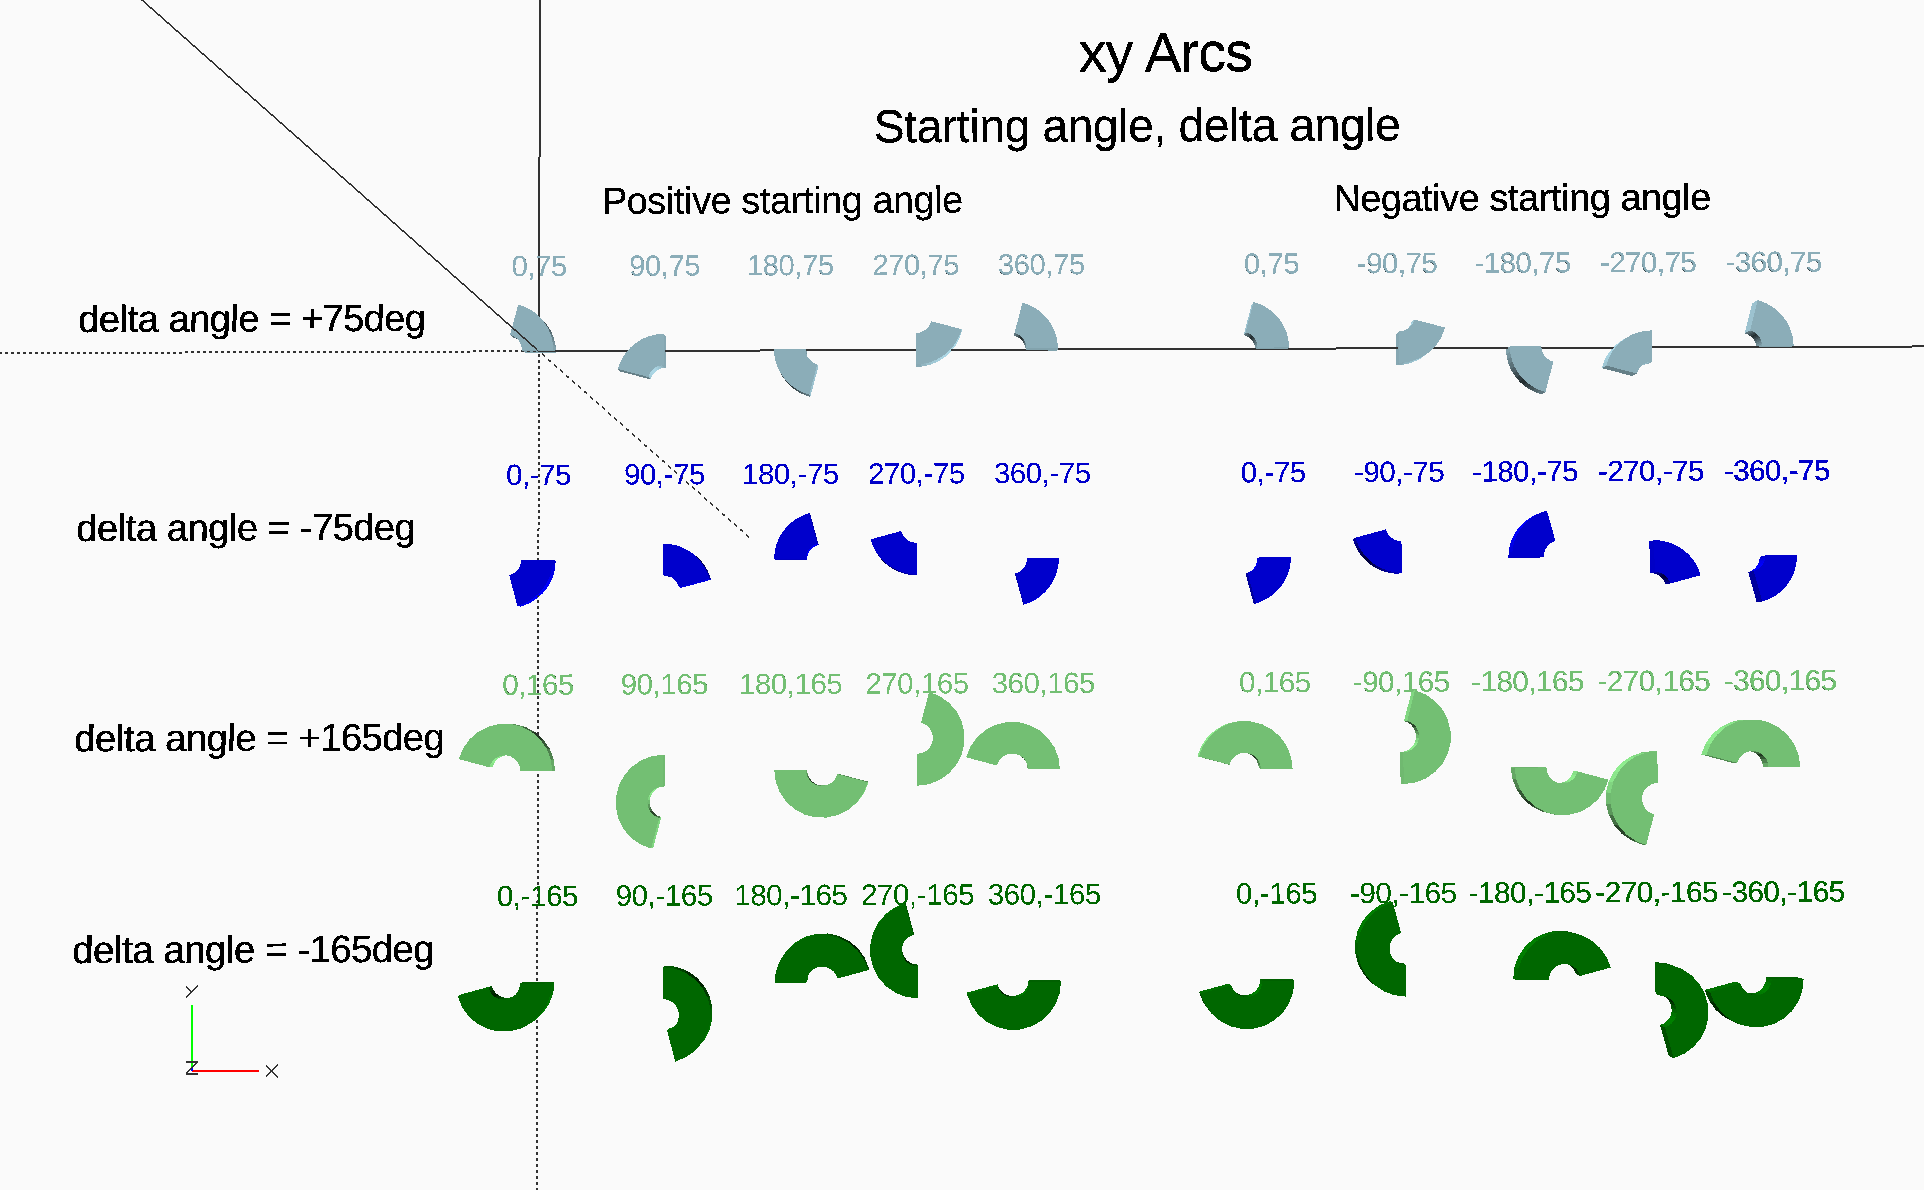
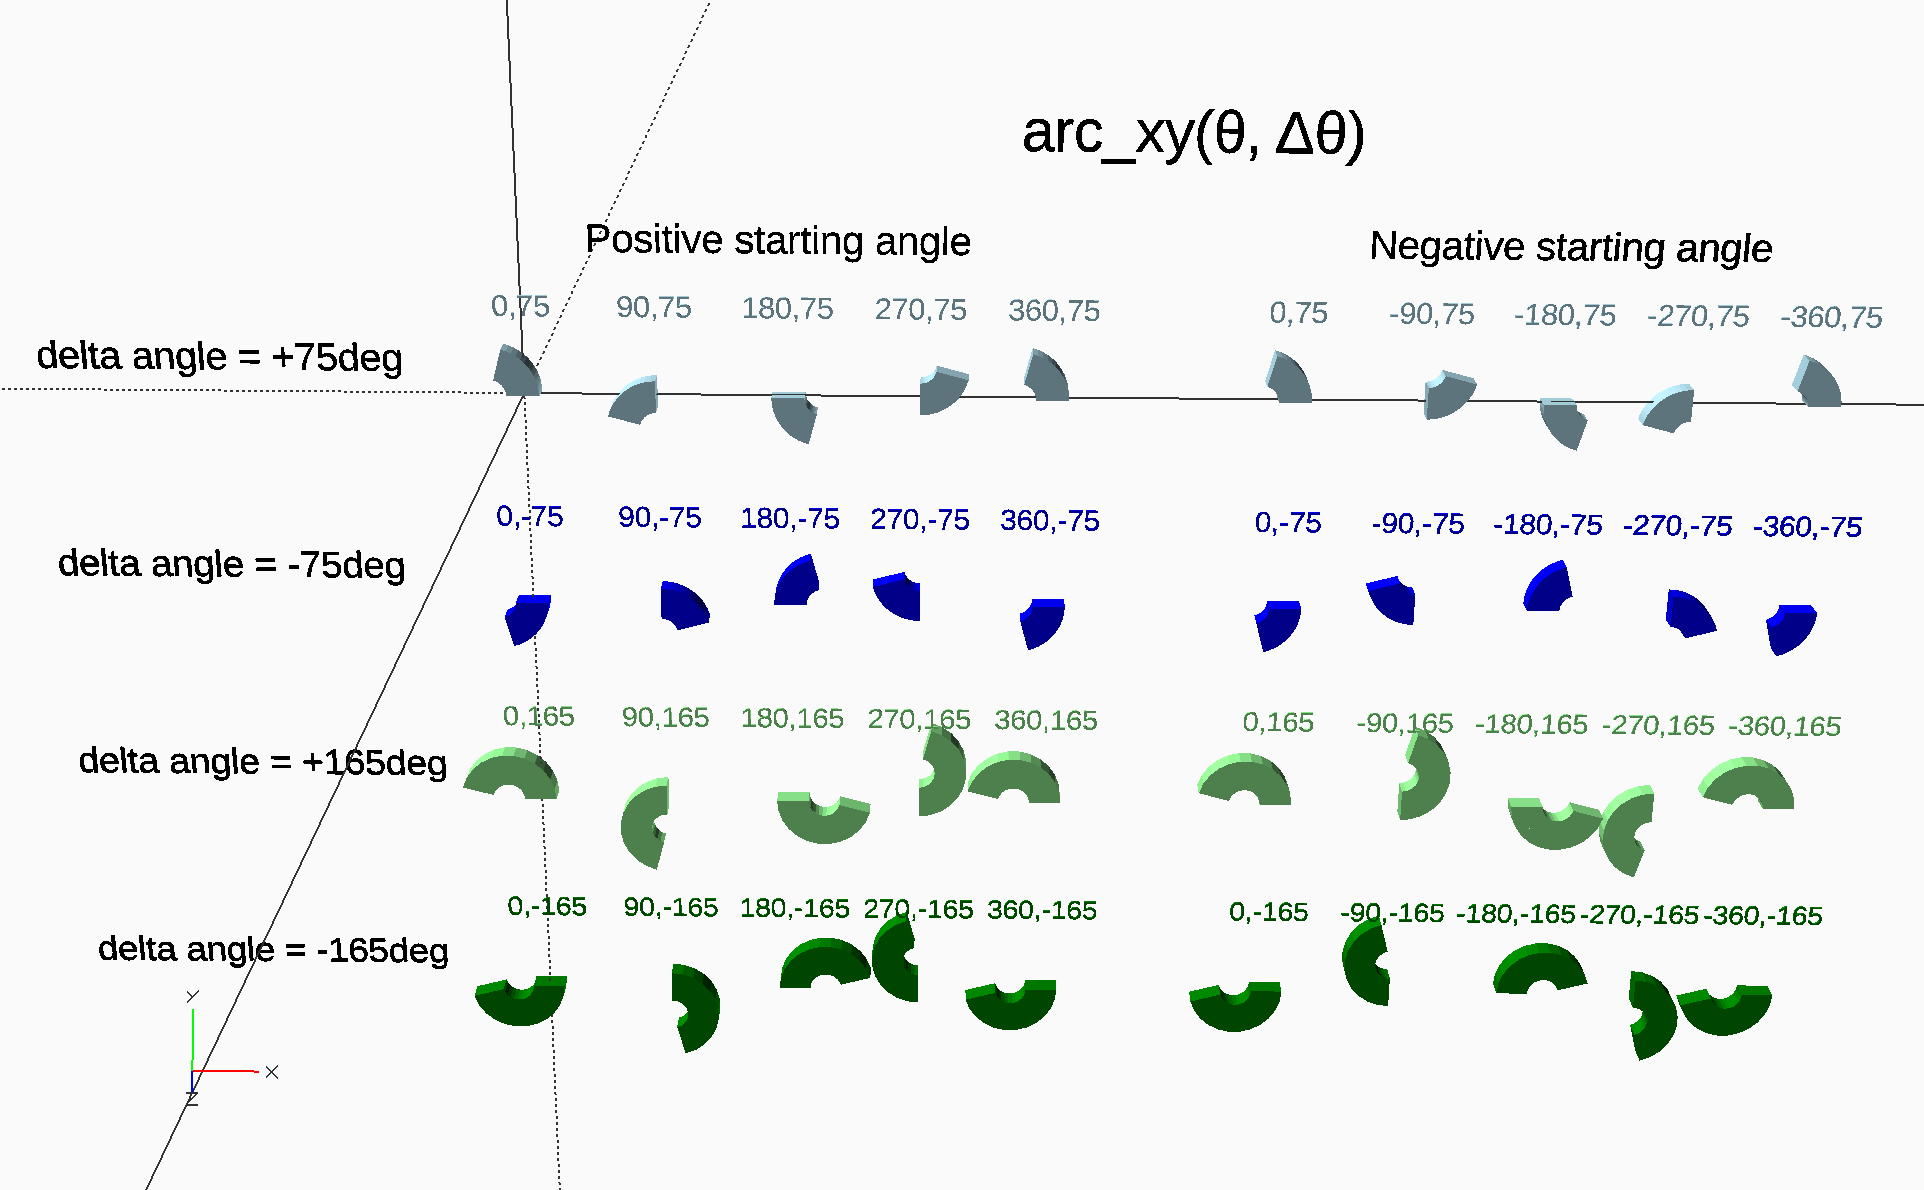
Update arc tables with Greek unicode characters

diff --git a/polychannel/notes-polychannel.md b/polychannel/notes-polychannel.md
@@ -142,6 +142,7 @@ Try creating an arc with intersection of cubes rotated and moved along an arc. L
 - &#9989; Re-do examples to make use of new arc and helper functions.
 - &#9989; Update README.md to use new methods.
 - &#9989; Update project wiki page on polychannel.
+- &#9989; Figure out how to use unicode characters.
 - Update `serpentine.scad` and `serpentine_circularends.scad` to use latest polychannel methods.
 
 
